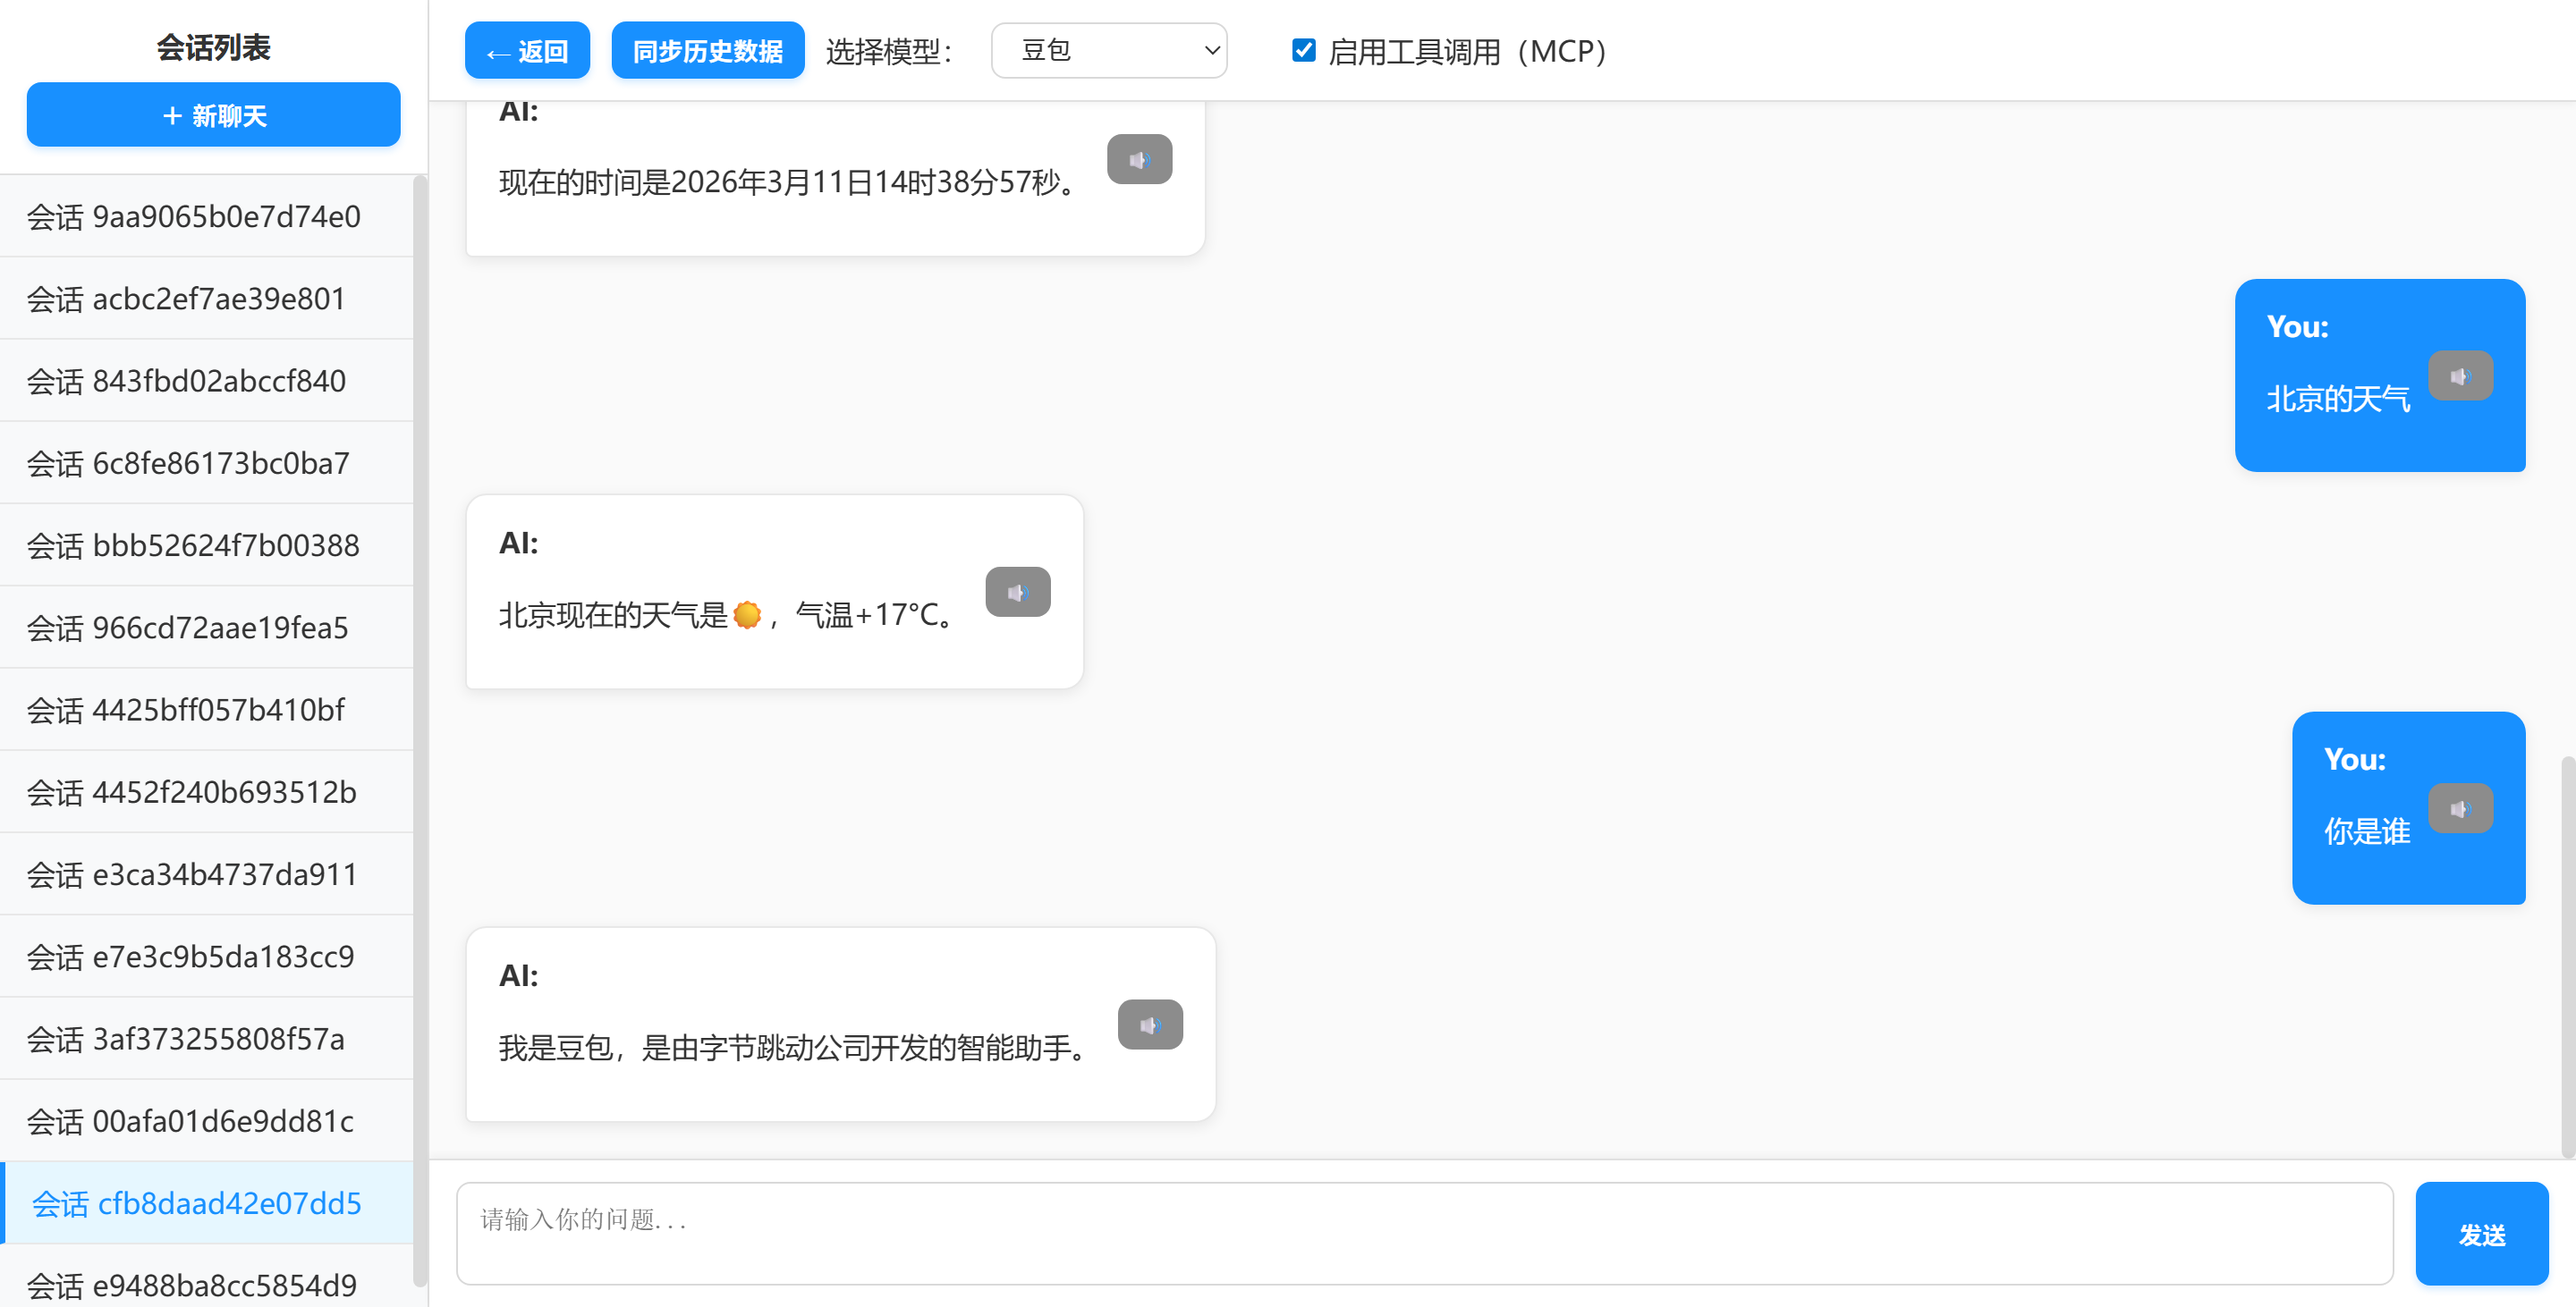
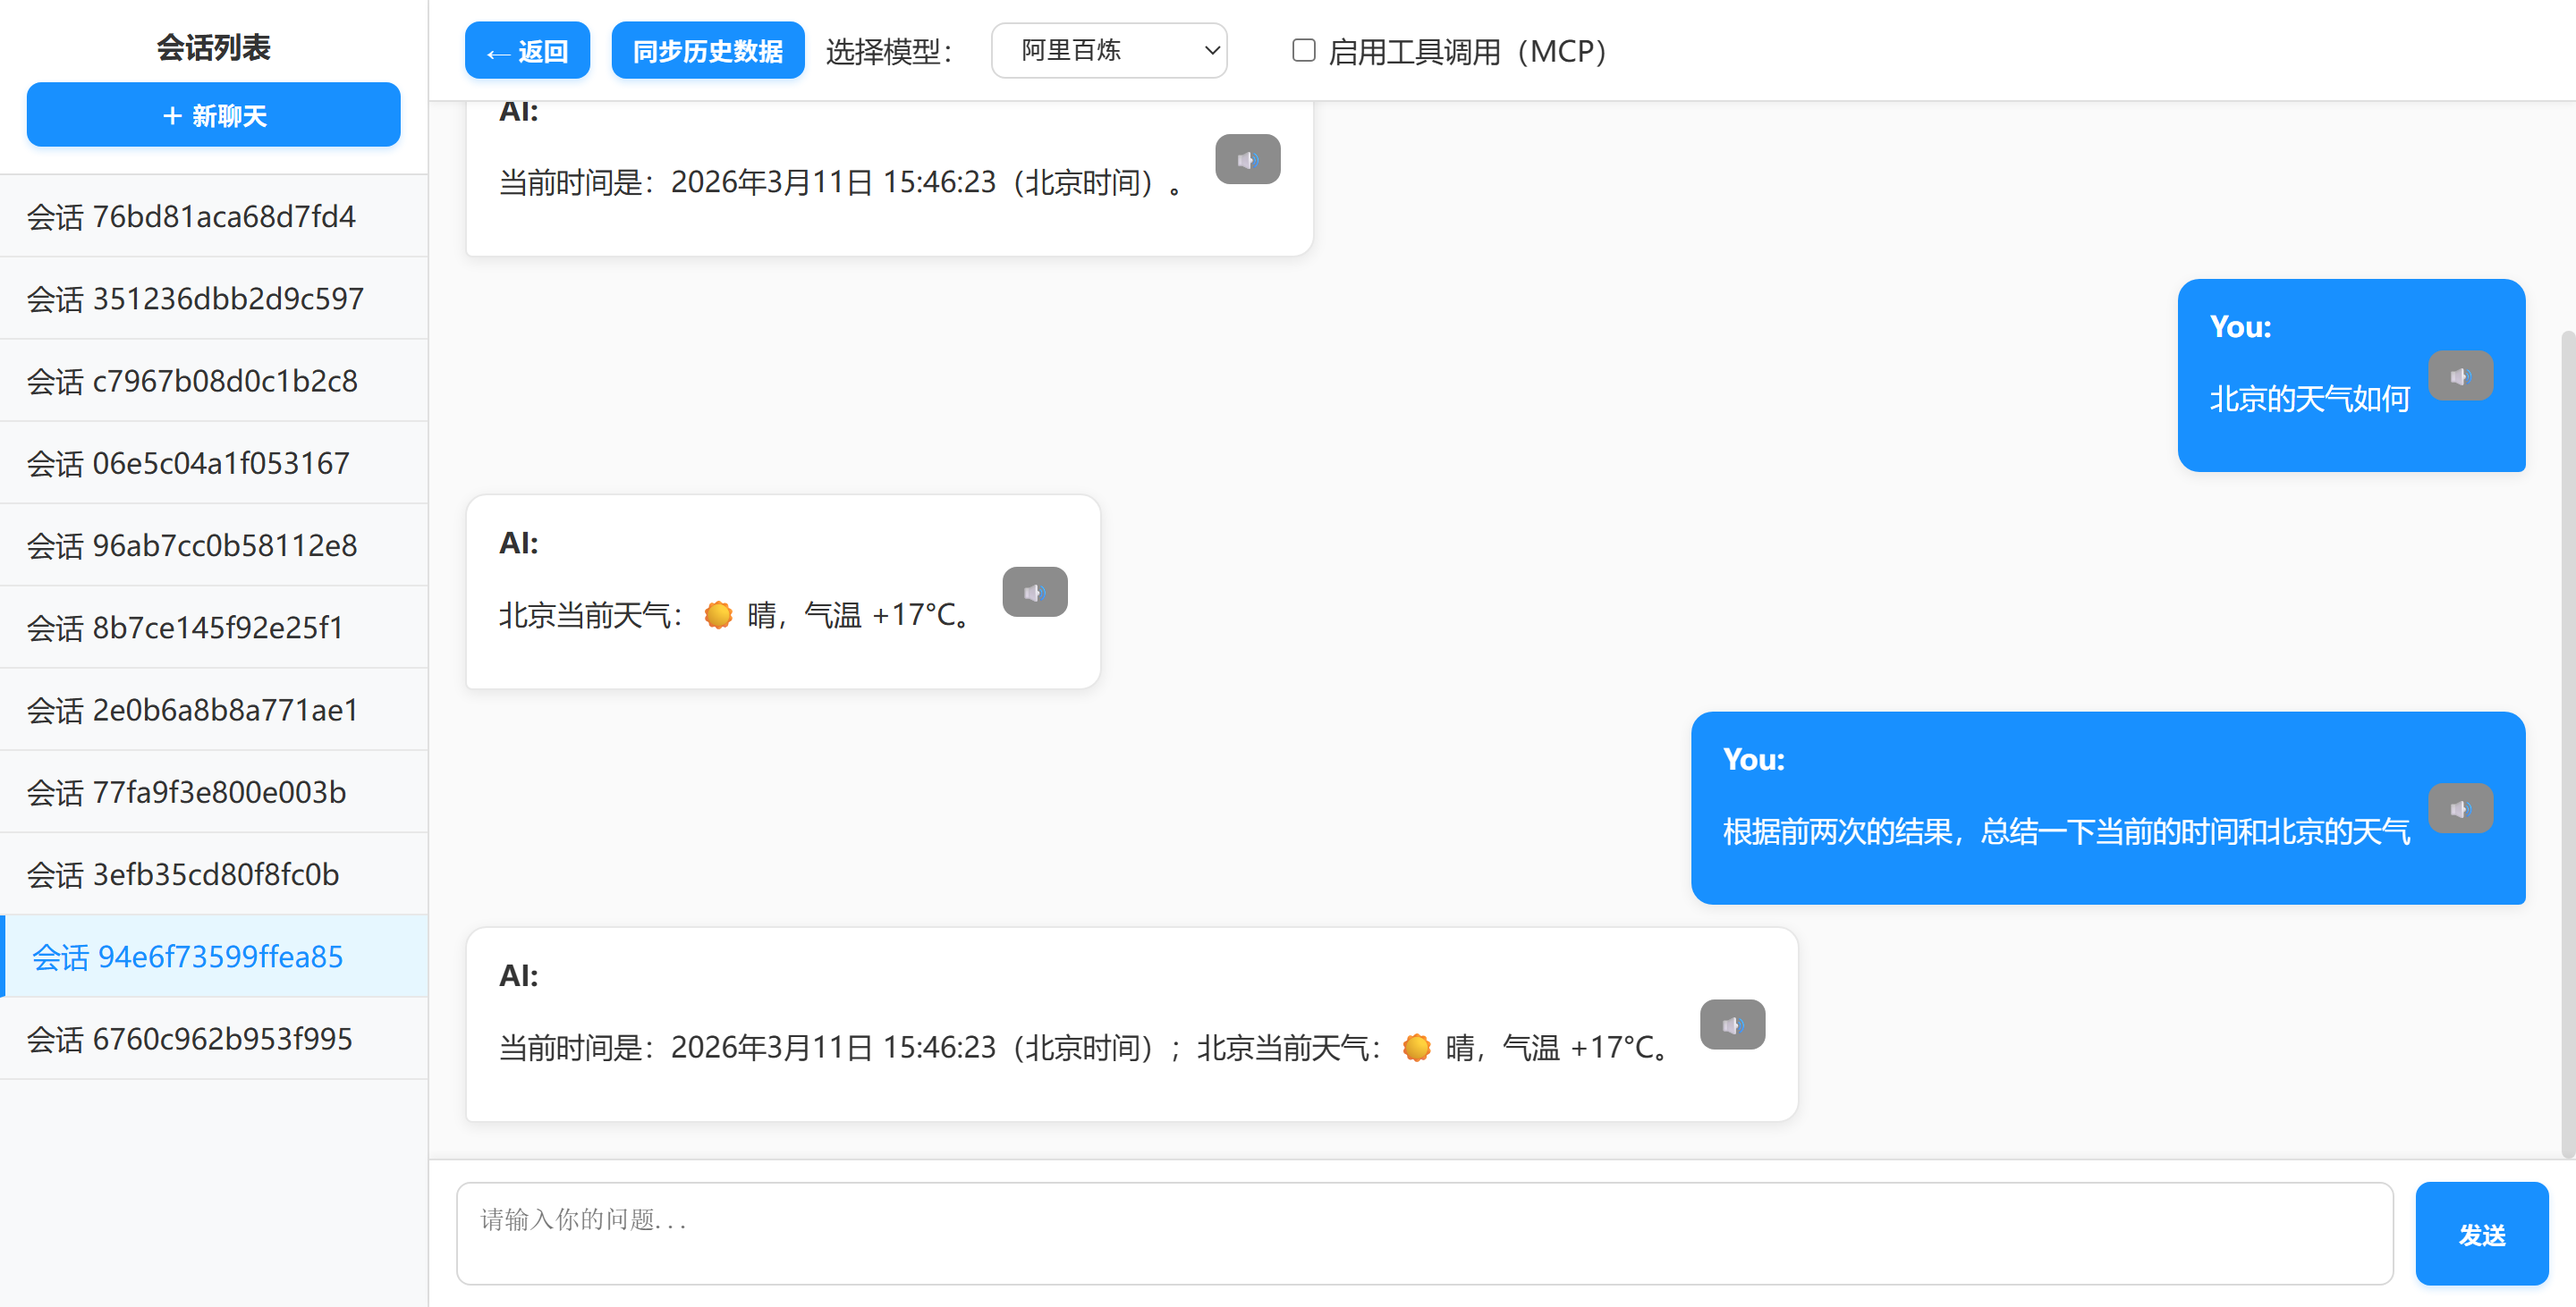
更新Agent 与工具调用（并行工具调用、多轮任务支持）；

diff --git a/ChatServer/src/core/AIHelper.cpp b/ChatServer/src/core/AIHelper.cpp
@@ -1,4 +1,6 @@
 #include <chrono>
+#include <future>
+#include <algorithm>
 #include <muduo/base/Logging.h>
 
 #include "utils/MQManager.h"
@@ -260,7 +262,6 @@ std::string AIHelper::chatImpl(int userId, std::string userName, std::string ses
     json firstReq = strategy->buildRequest(this->messages);
     json firstResp = executeCurl(firstReq); 
     std::string aiResult = strategy->parseResponse(firstResp);
-    LOG_INFO << "First AI response: " << aiResult;
     messages.pop_back();
 
     AIToolCall call = config.parseAIResponse(aiResult);
@@ -269,45 +270,133 @@ std::string AIHelper::chatImpl(int userId, std::string userName, std::string ses
     std::string finalAnswer;
     
     if (call.isToolCall) {
-        std::shared_ptr<Tool> tool = config.getToolRegistry().getTool(call.toolName);
-        if (tool) {
-            json toolParams = tool->getParameters();
-            bool valid = true;
-            std::string errorMsg;
+        // 检查是否是并行工具调用请求
+        if (call.toolName == "parallel_tools" && call.args.contains("tools") && call.args["tools"].is_array()) {
+            // 并行工具调用
+            std::vector<std::future<ToolCallResult>> toolFutures;
+            std::vector<ToolCallResult> toolResults;
             
-            if (toolParams.contains("required") && toolParams["required"].is_array()) {
-                for (const auto& requiredParam : toolParams["required"]) {
-                    if (requiredParam.is_string()) {
-                        std::string paramName = requiredParam.get<std::string>();
-                        if (!call.args.contains(paramName) || 
-                            call.args[paramName].is_null() || 
-                            (call.args[paramName].is_string() && call.args[paramName].get<std::string>().empty())) {
-                            valid = false;
-                            errorMsg = "缺少必要参数: " + paramName;
-                            break;
+            // 启动并行工具调用
+            for (const auto& toolCall : call.args["tools"]) {
+                if (toolCall.is_object() && toolCall.contains("tool") && toolCall.contains("args")) {
+                    std::string toolName = toolCall["tool"];
+                    json toolArgs = toolCall["args"];
+                    
+                    // 异步执行工具调用
+                    toolFutures.push_back(std::async(std::launch::async, [&config, toolName, toolArgs]() {
+                        ToolCallResult result;
+                        result.toolName = toolName;
+                        result.args = toolArgs;
+                        
+                        std::shared_ptr<Tool> tool = config.getToolRegistry().getTool(toolName);
+                        if (tool) {
+                            json toolParams = tool->getParameters();
+                            bool valid = true;
+                            std::string errorMsg;
+                            
+                            if (toolParams.contains("required") && toolParams["required"].is_array()) {
+                                for (const auto& requiredParam : toolParams["required"]) {
+                                    if (requiredParam.is_string()) {
+                                        std::string paramName = requiredParam.get<std::string>();
+                                        if (!toolArgs.contains(paramName) || 
+                                            toolArgs[paramName].is_null() || 
+                                            (toolArgs[paramName].is_string() && toolArgs[paramName].get<std::string>().empty())) {
+                                            valid = false;
+                                            errorMsg = "缺少必要参数: " + paramName;
+                                            break;
+                                        }
+                                    }
+                                }
+                            }
+                            
+                            if (valid) {
+                                try {
+                                    result.result = tool->execute(toolArgs);
+                                    result.success = true;
+                                } catch (const std::exception& e) {
+                                    result.success = false;
+                                    result.errorMessage = std::string(e.what());
+                                }
+                            } else {
+                                result.success = false;
+                                result.errorMessage = errorMsg;
+                            }
+                        } else {
+                            result.success = false;
+                            result.errorMessage = "未找到工具: " + toolName;
+                        }
+                        
+                        return result;
+                    }));
+                }
+            }
+            
+            // 收集工具调用结果
+            for (auto& future : toolFutures) {
+                ToolCallResult result = future.get();
+                toolResults.push_back(result);
+                
+                if (result.success) {
+                    messages.push_back({ "[工具调用结果] " + result.toolName + "\n" + result.result.dump(4), 0 });
+                } else {
+                    messages.push_back({ "[工具执行错误] " + result.toolName + "\n" + result.errorMessage, 0 });
+                }
+            }
+        } else {
+            // 单个工具调用
+            std::shared_ptr<Tool> tool = config.getToolRegistry().getTool(call.toolName);
+            if (tool) {
+                json toolParams = tool->getParameters();
+                bool valid = true;
+                std::string errorMsg;
+                
+                if (toolParams.contains("required") && toolParams["required"].is_array()) {
+                    for (const auto& requiredParam : toolParams["required"]) {
+                        if (requiredParam.is_string()) {
+                            std::string paramName = requiredParam.get<std::string>();
+                            if (!call.args.contains(paramName) || 
+                                call.args[paramName].is_null() || 
+                                (call.args[paramName].is_string() && call.args[paramName].get<std::string>().empty())) {
+                                valid = false;
+                                errorMsg = "缺少必要参数: " + paramName;
+                                break;
+                            }
                         }
                     }
                 }
-            }
-            
-            if (valid) {
-                try {
-                    json toolResult = tool->execute(call.args);
-                    messages.push_back({ "[工具调用结果]\n" + toolResult.dump(4), 0 });
-                } catch (const std::exception& e) {
-                    messages.push_back({ "[工具执行错误]\n" + std::string(e.what()), 0 });
+                
+                if (valid) {
+                    try {
+                        json toolResult = tool->execute(call.args);
+                        messages.push_back({ "[工具调用结果]\n" + toolResult.dump(4), 0 });
+                    } catch (const std::exception& e) {
+                        messages.push_back({ "[工具执行错误]\n" + std::string(e.what()), 0 });
+                    }
+                } else {
+                    messages.push_back({ "[参数验证失败]\n" + errorMsg, 0 });
                 }
             } else {
-                messages.push_back({ "[参数验证失败]\n" + errorMsg, 0 });
+                messages.push_back({ "[工具调用失败]\n未找到工具: " + call.toolName, 0 });
             }
-        } else {
-            messages.push_back({ "[工具调用失败]\n未找到工具: " + call.toolName, 0 });
         }
         
         // 第二步请求
         json secondReq = strategy->buildRequest(this->messages);
         json secondResp = executeCurl(secondReq);
         finalAnswer = strategy->parseResponse(secondResp);
+        
+        // 去除<think>标签和思考过程，只保留实际回答
+        size_t thinkStart = finalAnswer.find("<think>");
+        while (thinkStart != std::string::npos) {
+            size_t thinkEnd = finalAnswer.find("</think>", thinkStart);
+            if (thinkEnd != std::string::npos) {
+                finalAnswer.erase(thinkStart, thinkEnd - thinkStart + 8);
+            } else {
+                break;
+            }
+            thinkStart = finalAnswer.find("<think>");
+        }
+        
         messages.push_back({ finalAnswer, 0 });
     } else {
         // 不需要工具调用，直接使用第一个请求的结果
@@ -338,7 +427,7 @@ json AIHelper::executeCurl(const json& payload, StreamCallback callback) {
         throw std::runtime_error("Failed to initialize curl");
     }
 
-    LOG_INFO << "AI API invoke " << strategy->getApiUrl().c_str() << ' ' << strategy->getApiKey();
+    LOG_INFO << "AI API invoke " << strategy->getApiUrl().c_str();
 
     std::string readBuffer;
     struct curl_slist* headers = nullptr;
@@ -401,7 +490,7 @@ size_t AIHelper::WriteCallback(void* contents, size_t size, size_t nmemb, void* 
     std::string rawData(static_cast<char*>(contents), totalSize);
     ctx->buffer->append(rawData);
     
-    LOG_INFO << "Raw data received (" << totalSize << " bytes): " << rawData;
+    LOG_INFO << "Raw data received (" << totalSize << " bytes)"; // Response content not logged for security and performance
     
     // 实时解析并回调
     if (ctx->callback) {

diff --git a/ChatServer/src/core/AIConfig.cpp b/ChatServer/src/core/AIConfig.cpp
@@ -226,14 +226,52 @@ std::string AIConfig::buildPrompt(const std::string& userInput) const {
 AIToolCall AIConfig::parseAIResponse(const std::string& response) const {
     AIToolCall result;
     try {
-        json j = json::parse(response);
-
-        if (j.contains("tool") && j["tool"].is_string()) {
-            result.toolName = j["tool"].get<std::string>();
-            if (j.contains("args") && j["args"].is_object()) {
-                result.args = j["args"];
+        // 去除<think>标签内容
+        std::string cleanResponse = response;
+        size_t thinkStart = cleanResponse.find("<think>");
+        while (thinkStart != std::string::npos) {
+            size_t thinkEnd = cleanResponse.find("</think>", thinkStart);
+            if (thinkEnd != std::string::npos) {
+                cleanResponse.erase(thinkStart, thinkEnd - thinkStart + 8);
+            } else {
+                break;
             }
-            result.isToolCall = true;
+            thinkStart = cleanResponse.find("<think>");
+        }
+        
+        // 尝试直接解析整个响应
+        try {
+            json j = json::parse(cleanResponse);
+            if (j.contains("tool") && j["tool"].is_string()) {
+                result.toolName = j["tool"].get<std::string>();
+                if (j.contains("args") && j["args"].is_object()) {
+                    result.args = j["args"];
+                }
+                result.isToolCall = true;
+                return result;
+            }
+        } catch (...) {
+            // 直接解析失败，尝试从响应中提取JSON
+        }
+        
+        // 从响应中提取JSON部分
+        size_t jsonStart = cleanResponse.find('{');
+        size_t jsonEnd = cleanResponse.rfind('}');
+        
+        if (jsonStart != std::string::npos && jsonEnd != std::string::npos && jsonEnd > jsonStart) {
+            std::string jsonStr = cleanResponse.substr(jsonStart, jsonEnd - jsonStart + 1);
+            try {
+                json j = json::parse(jsonStr);
+                if (j.contains("tool") && j["tool"].is_string()) {
+                    result.toolName = j["tool"].get<std::string>();
+                    if (j.contains("args") && j["args"].is_object()) {
+                        result.args = j["args"];
+                    }
+                    result.isToolCall = true;
+                }
+            } catch (...) {
+                result.isToolCall = false;
+            }
         }
     }
     catch (...) {
@@ -253,6 +291,7 @@ std::string AIConfig::buildToolResultPrompt(
         << "我刚才调用了工具 [" << toolName << "] ，参数为："
         << toolArgs.dump() << "\n"
         << "工具返回的结果如下：\n" << toolResult.dump(4) << "\n"
-        << "请根据以上信息，用自然语言回答用户。";
+        << "请根据以上信息，用自然语言回答用户。\n"
+        << "重要要求：只输出最终结果，不要包含思考过程或多余信息。";
     return oss.str();
 }

diff --git a/ChatServer/include/core/AIConfig.h b/ChatServer/include/core/AIConfig.h
@@ -47,6 +47,23 @@ struct AIToolCall {
     bool isToolCall = false;
 };
 
+// 工具调用结果结构
+struct ToolCallResult {
+    std::string toolName;
+    json args;
+    json result;
+    bool success;
+    std::string errorMessage;
+};
+
+// 任务状态结构
+struct TaskState {
+    std::string taskId;
+    std::vector<ToolCallResult> toolCallHistory;
+    int currentStep;
+    bool isCompleted;
+};
+
 // 数据库配置结构
 struct DatabaseConfig {
     std::string host;

diff --git a/README.md b/README.md
@@ -116,7 +116,8 @@ sudo ./chat_server
 ![菜单页面](images/image_2.png)
 
 AI对话页面 
-![AI对话页面](images/image_3.png)
+![多轮任务支持](images/image_3.png)
+![并行工具调用](images/image_4.png)
 
 ## 总结
 
